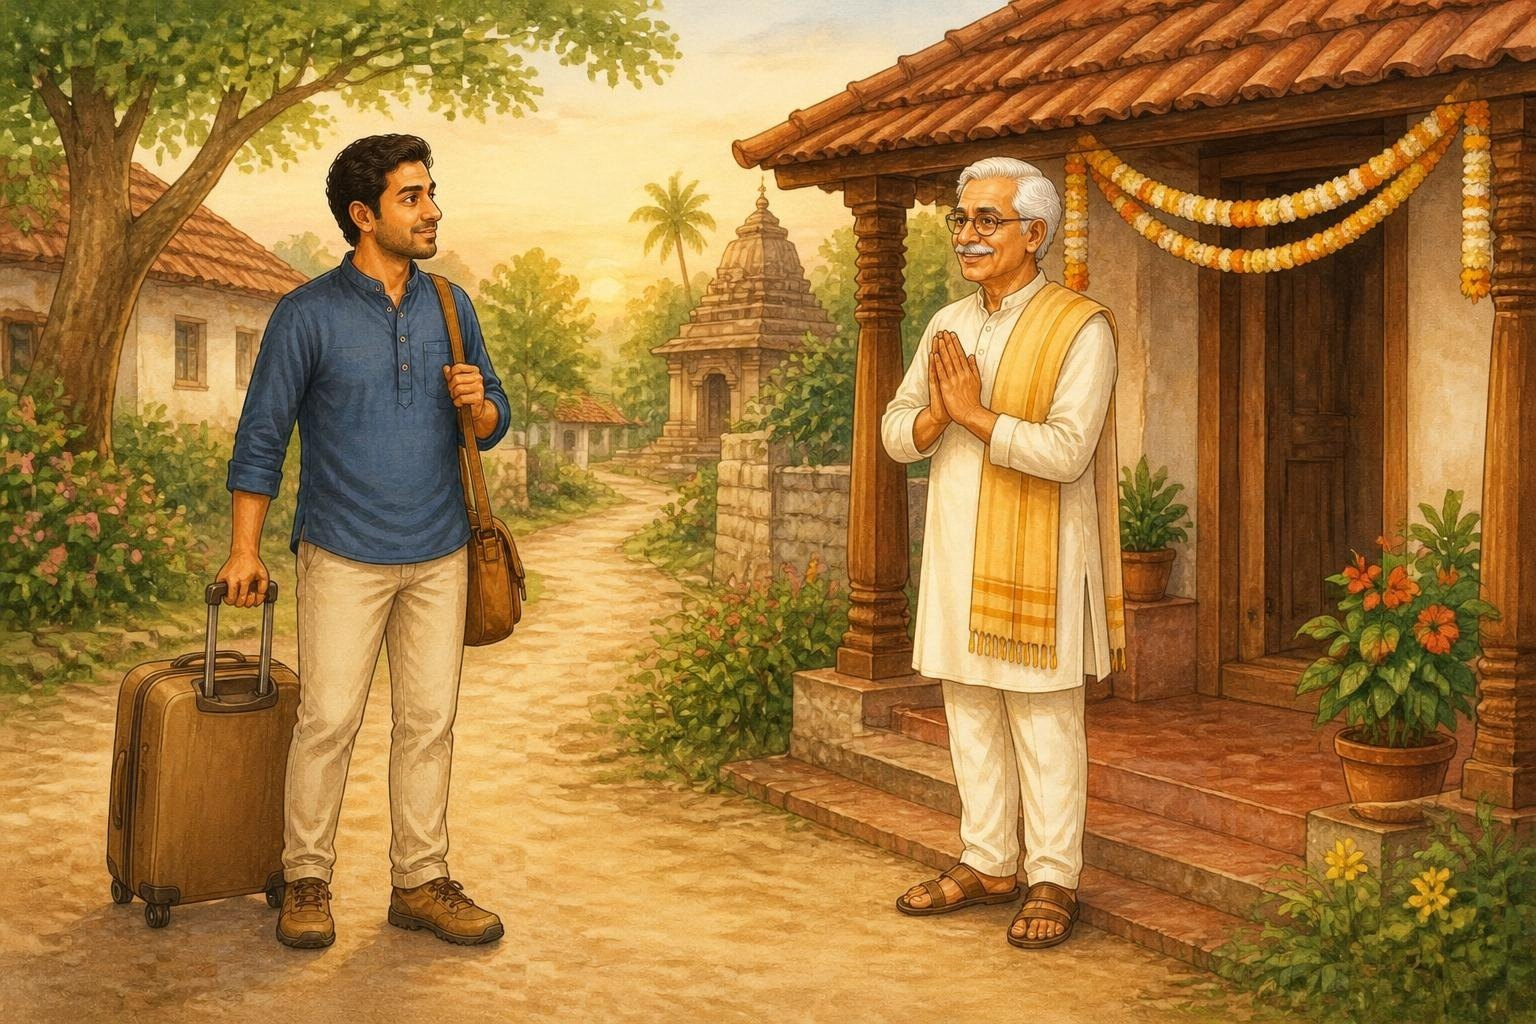
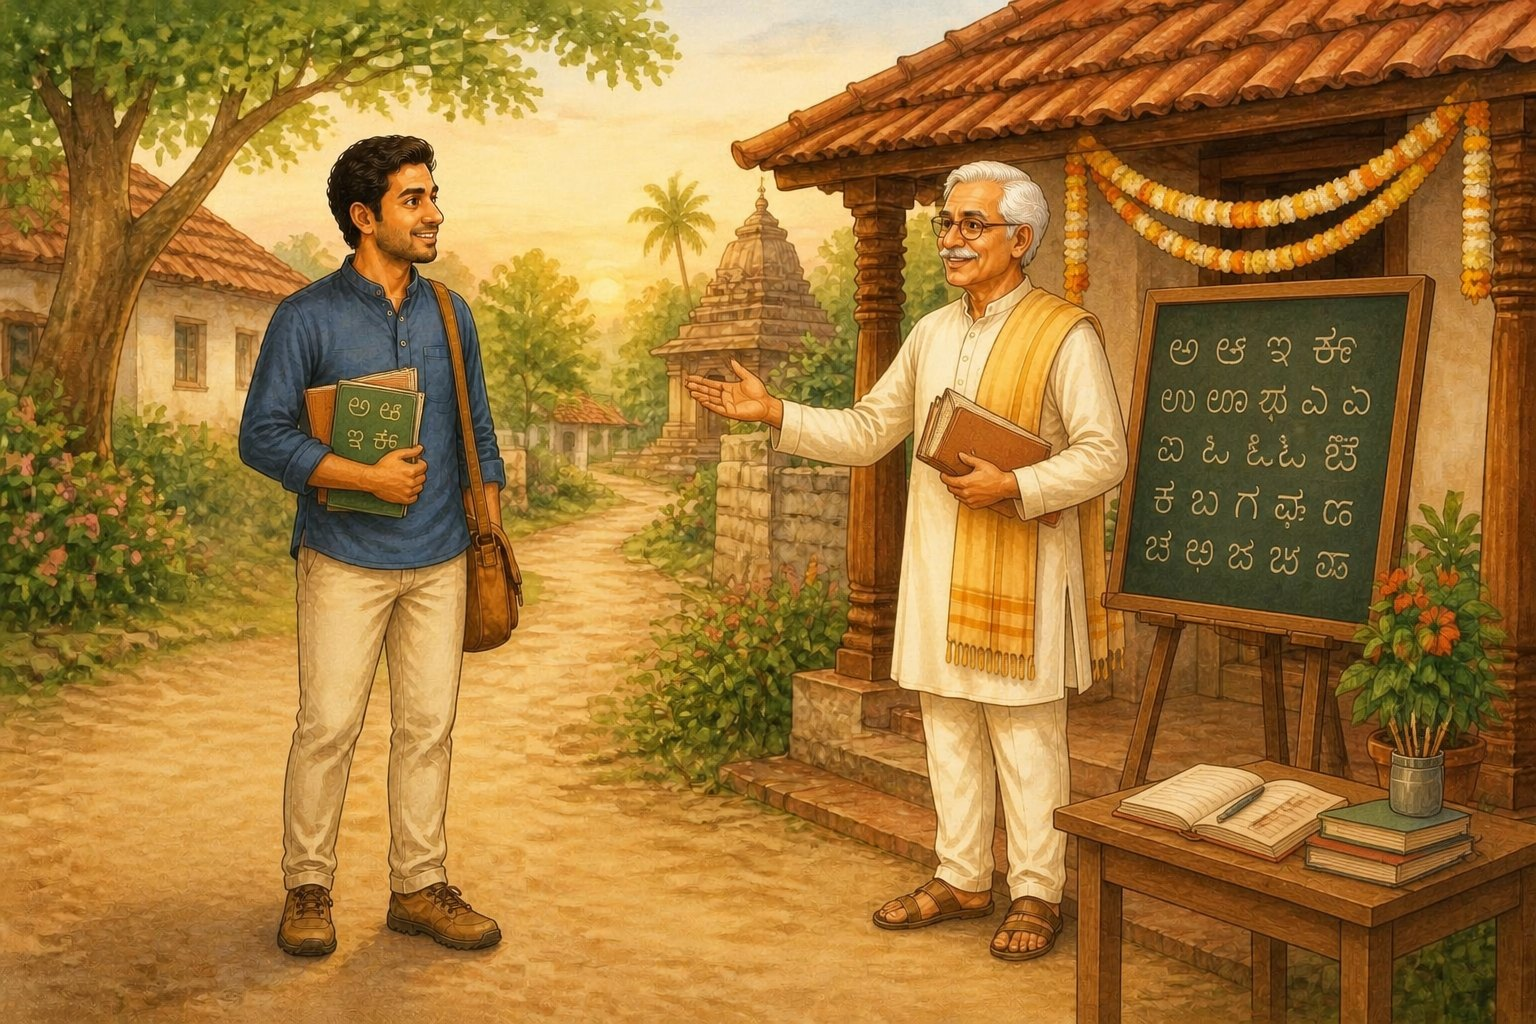
Original Pictures for home & contact pages

diff --git a/assets/storybook.js b/assets/storybook.js
@@ -37,7 +37,7 @@ var IMAGES = {
   stageBelong: "",   // Stage 3: alumni courtyard
 
   /* ---- Home (index.html) ---- */
-  home1:    "",   // Rahul arrives in the village, Anand greets him
+  home1:    "",   // Home: set up under PHOTOS below (picture with words on it)
   home2:    "",   // three stepping stones: Practical, Step by step, Connection
   home3:    "",   // signpost with seven arrows (the seven steps)
 
@@ -63,7 +63,23 @@ var IMAGES = {
   about0:   "",
 
   /* ---- Contact (contact.html) ---- */
-  contact0: ""
+  contact0: "",
+  contact1: ""    // Contact page, 2nd page (the enquiry form)
+};
+
+/* ---------------------------------------------------------------------
+   ILLUSTRATIONS (your painted pictures, with words written over them)
+   The page shows your picture and writes the speech bubbles and signs on
+   top of it. If a picture file is missing, the built-in drawing is shown.
+   Files go in the folder assets/images/ :
+     home1     Home page
+     contact0  Contact page, page 1 (teacher invites the student to fill the form)
+     contact1  Contact page, page 2 (student fills the form)
+   --------------------------------------------------------------------- */
+var PHOTOS = {
+  home1:    { src: "assets/images/home-welcome.jpg" },
+  contact0: { src: "assets/images/contact-teachersuggestingformfilling.jpg" },
+  contact1: { src: "assets/images/contact-studentfillingform.jpg" }
 };
 
 /* ---------------------------------------------------------------------
@@ -988,6 +1004,43 @@ SCENES.prog7 = function () { return SCENES.writing(); };
 SCENES.prog8 = function () { return SCENES.program5(); };
 SCENES.prog9 = function () { return SCENES.program6(); };
 
+
+/* =====================================================================
+   WORDS WRITTEN OVER THE PICTURES
+   Change the words here and they change on the picture.
+   Positions use a space of 480 across and 320 down.
+   ===================================================================== */
+function ribbon(cx, y, w, h, text, size) {
+  var x = cx - w / 2;
+  return '<path d="M' + (x - 10) + ' ' + y + ' H' + (x + w + 10) + ' L' + (x + w) + ' ' + (y + h / 2) + ' L' + (x + w + 10) + ' ' + (y + h) + ' H' + (x - 10) + ' L' + x + ' ' + (y + h / 2) + ' Z" fill="#b5301d" stroke="' + INK + '" stroke-width="2.4" stroke-linejoin="round"/>' +
+    '<text class="sb-svg-text" x="' + cx + '" y="' + (y + h / 2 + size / 3) + '" font-size="' + size + '" text-anchor="middle" fill="#fff7e2" font-weight="800">' + text + '</text>';
+}
+var OVERLAYS = {
+  /* Home: both say Namaskara, and a Welcome ribbon lies on the path */
+  home1: function () {
+    return bubble(26, 4, 130, 32, "Namaskara!", 17, "r") +
+      bubble(228, 6, 122, 32, "Namaskara!", 17, "r") +
+      ribbon(218, 282, 80, 22, "Welcome", 15);
+  },
+  /* Contact page 1: the student gives his name, the teacher asks it */
+  contact0: function () {
+    return bubble(95, 2, 110, 30, "Rahul", 20, "r") +
+      bubble(340, 6, 136, 32, "What is your name?", 12, "l");
+  },
+  /* Contact page 2: a Welcome ribbon across the top */
+  contact1: function () {
+    return ribbon(197, 8, 130, 26, "Welcome", 19);
+  }
+};
+function photoScene(p, slot) {
+  var ov = OVERLAYS[slot] ? OVERLAYS[slot]() : "";
+  return '<svg class="sb-svg-photo" style="aspect-ratio:3 / 2" viewBox="0 0 1536 1024" xmlns="http://www.w3.org/2000/svg" xmlns:xlink="http://www.w3.org/1999/xlink" preserveAspectRatio="xMidYMid meet" role="img">' +
+    '<image href="' + p.src + '" xlink:href="' + p.src + '" x="0" y="0" width="1536" height="1024" preserveAspectRatio="xMidYMid slice"/>' +
+    '<g transform="scale(3.2)">' + ov + '</g></svg>';
+}
+/* if the Contact page 2 picture file is missing, the gate drawing is shown */
+SCENES.contact1 = function () { return SCENES.finale(); };
+
 /* ---------------------------------------------------------------------
    Fills each picture slot: your image if set, otherwise the drawing.
    --------------------------------------------------------------------- */
@@ -1002,10 +1055,13 @@ SCENES.prog9 = function () { return SCENES.program6(); };
     var slot = el.getAttribute("data-slot");
     var alt = el.getAttribute("data-alt") || "";
     var src = IMAGES[slot];
-    function useDrawing() {
-      el.innerHTML = drawing(slot);
+    function mark() {
       el.setAttribute("role", "img");
       el.setAttribute("aria-label", alt);
+    }
+    function useDrawing() {
+      el.innerHTML = drawing(slot);
+      mark();
     }
     if (src) {
       var img = new Image();
@@ -1014,6 +1070,13 @@ SCENES.prog9 = function () { return SCENES.program6(); };
       img.src = src;
       el.innerHTML = "";
       el.appendChild(img);
+    } else if (PHOTOS[slot]) {
+      /* your painted picture with the words on it; the drawing if the file is missing */
+      var probe = new Image();
+      probe.onload = function () { el.innerHTML = photoScene(PHOTOS[slot], slot); mark(); };
+      probe.onerror = useDrawing;
+      el.innerHTML = "";
+      probe.src = PHOTOS[slot].src;
     } else {
       useDrawing();
     }

diff --git a/contact.html b/contact.html
@@ -52,7 +52,7 @@
       <!-- ============ THE GUEST BOOK ============ -->
       <section class="sb-spread" data-title="The guest book">
         <div class="sb-page sb-page--art">
-          <div class="sb-art" data-slot="contact0" data-alt="Rahul signs the guest book on a table at the door of a house while Anand asks his name in Kannada">
+          <div class="sb-art" data-slot="contact0" data-alt="Anand gestures toward the guest book on a table, inviting Rahul to sit and fill it in, and asks his name">
             <p class="sb-art__fallback">The picture goes here. If you only see this message, upload <strong>storybook.js</strong> next to this page.</p>
           </div>
         </div>
@@ -74,7 +74,7 @@
       <!-- ============ ENQUIRY FORM ============ -->
       <section class="sb-spread" data-title="Enquiry form">
         <div class="sb-page sb-page--art">
-          <div class="sb-art" data-slot="finale" data-alt="The village gate with a welcoming lamp, and Anand and Rahul waving">
+          <div class="sb-art" data-slot="contact1" data-alt="Rahul sits at the table and fills in the guest book while Anand looks on with a smile, under a Welcome ribbon">
             <p class="sb-art__fallback">The picture goes here. If you only see this message, upload <strong>storybook.js</strong> next to this page.</p>
           </div>
         </div>

diff --git a/index.html b/index.html
@@ -52,7 +52,7 @@
       <!-- ============ WELCOME ============ -->
       <section class="sb-spread" data-title="Welcome">
         <div class="sb-page sb-page--art">
-          <div class="sb-art" data-slot="home1" data-alt="Rahul arrives in a village with his suitcase and Anand greets him with folded hands under a welcome banner">
+          <div class="sb-art" data-slot="home1" data-alt="Anand welcomes Rahul, who arrives with books and a bag, beside a blackboard of Kannada letters under a Welcome ribbon">
             <p class="sb-art__fallback">The picture goes here. If you only see this message, upload <strong>storybook.js</strong> next to this page.</p>
           </div>
         </div>
